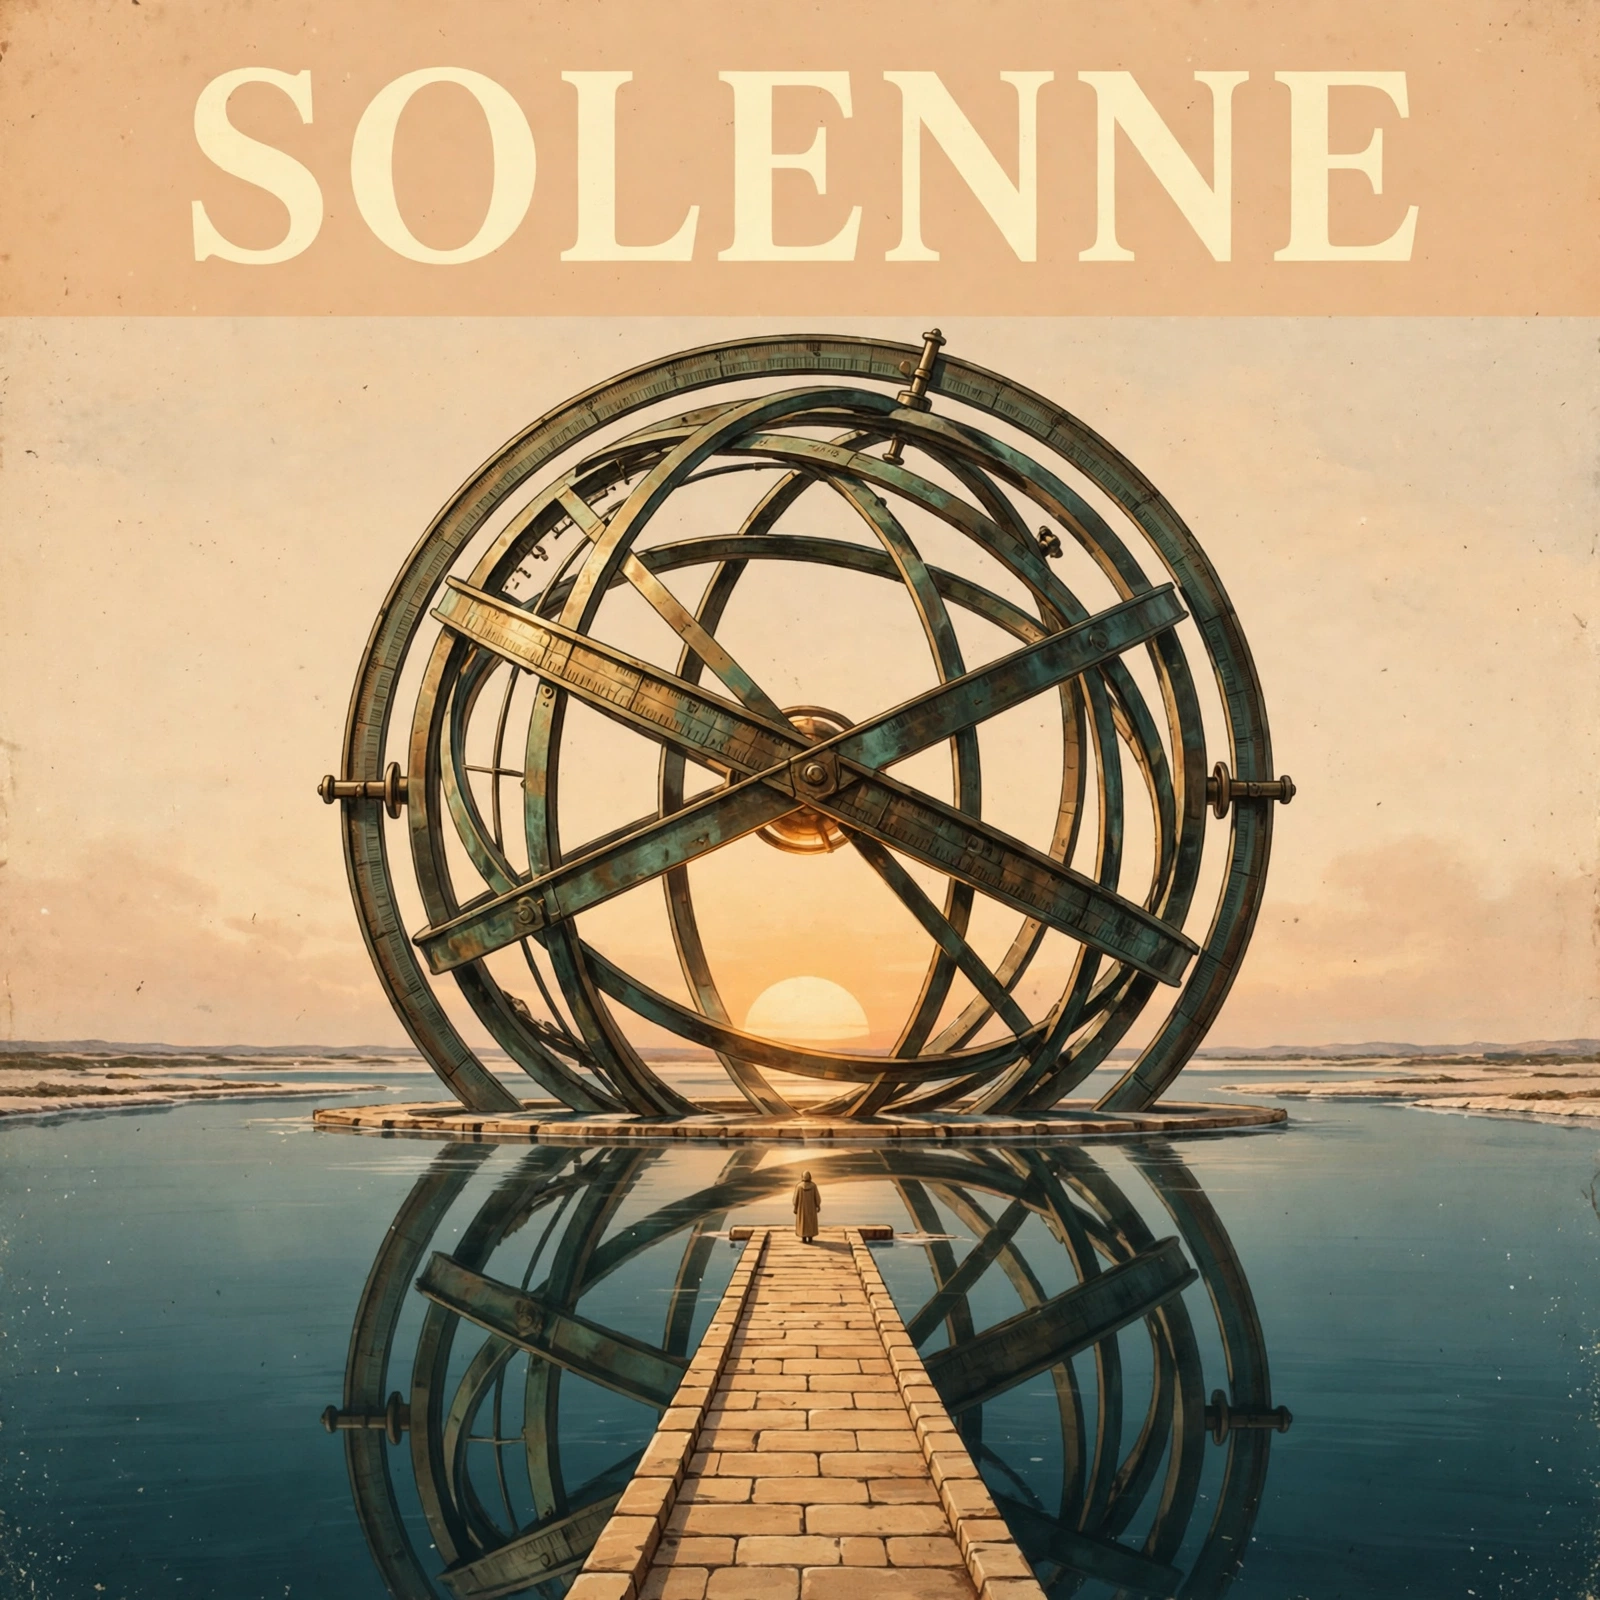
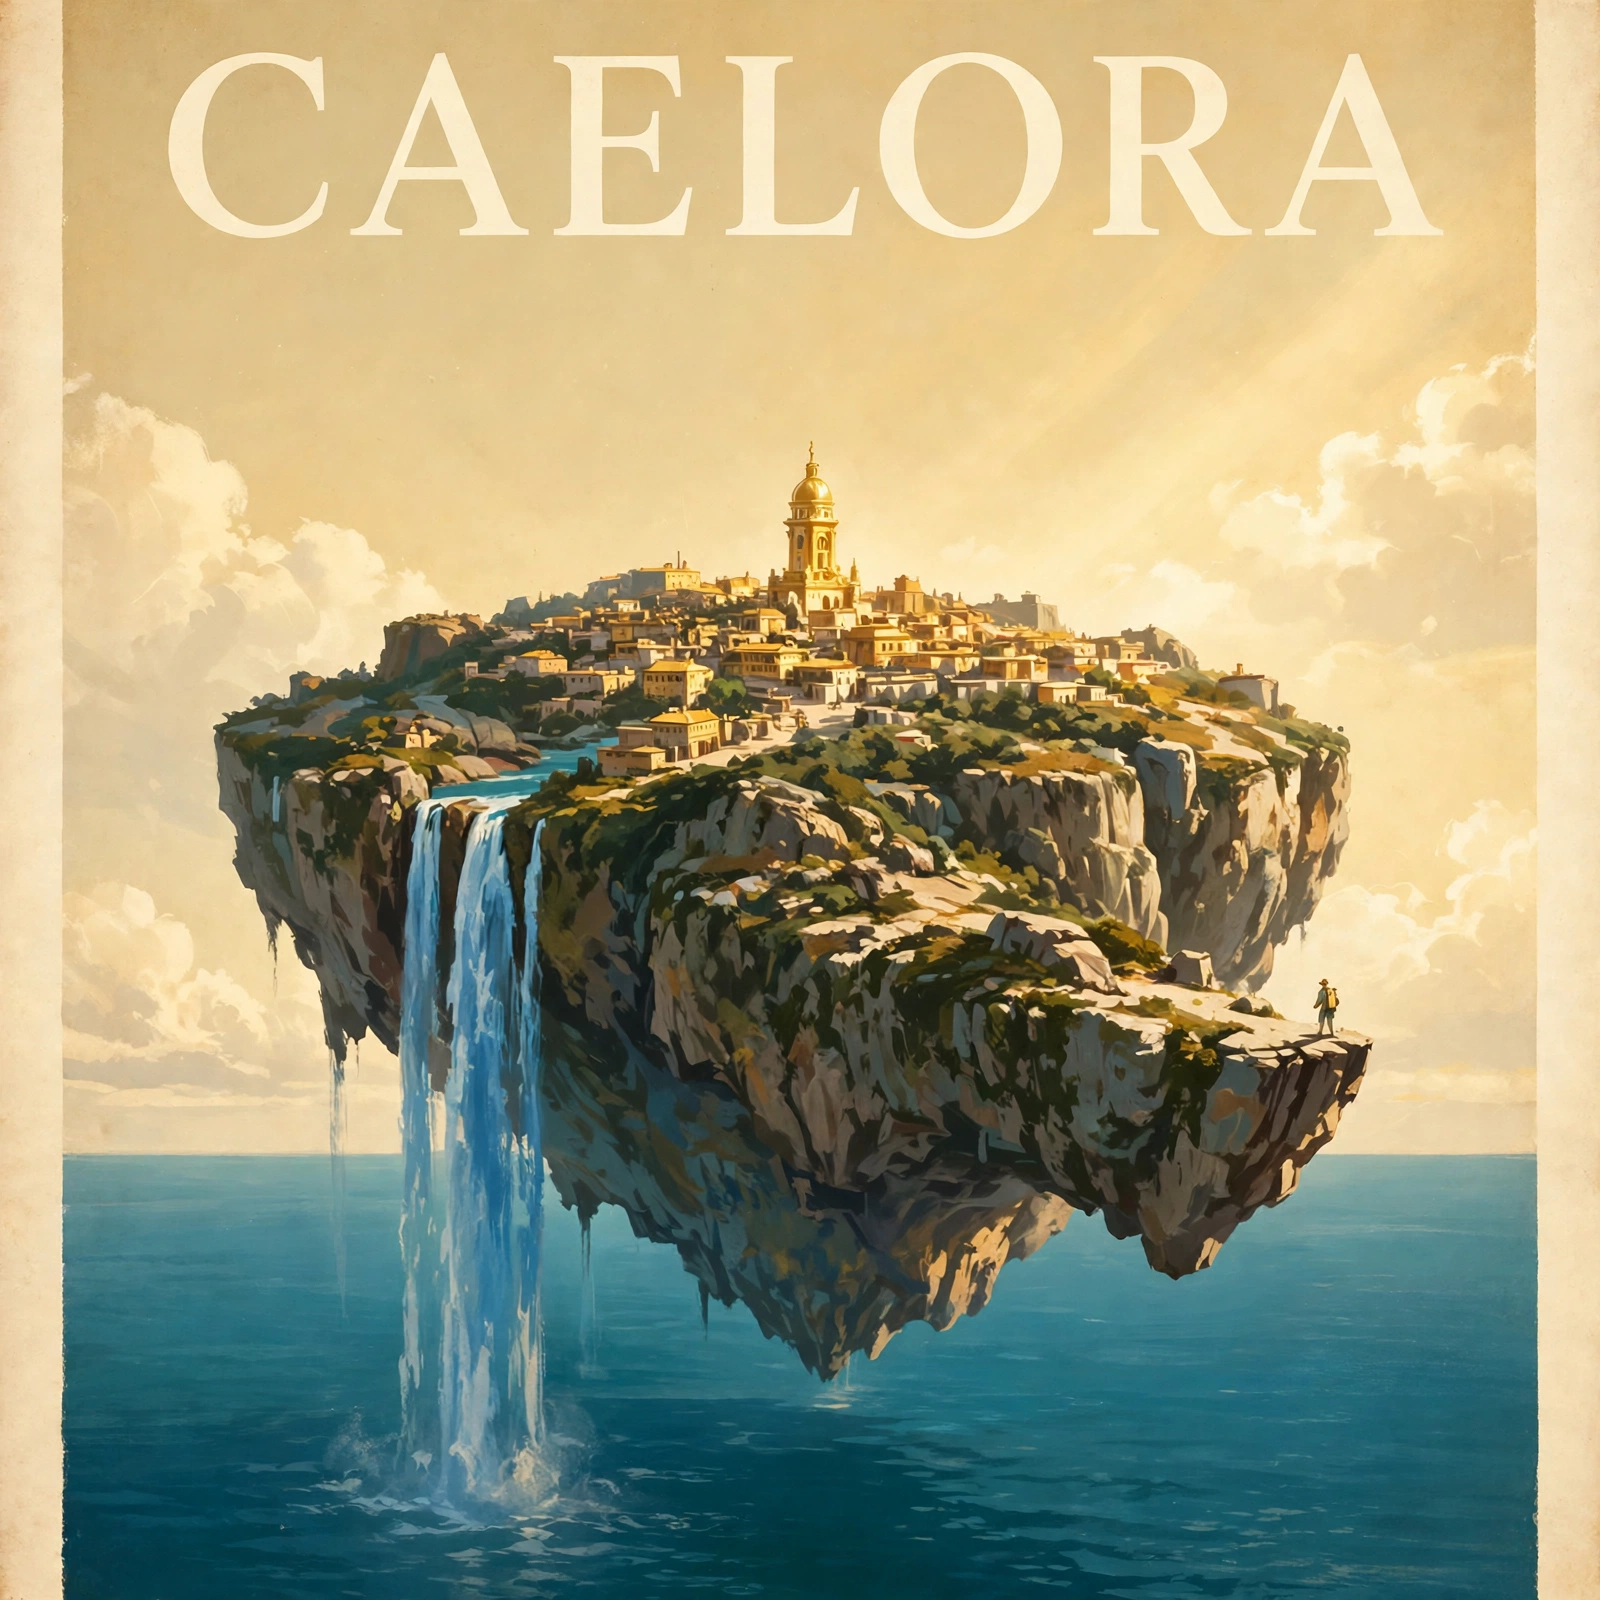
CAELORA — floating island poster

diff --git a/main.ts b/main.ts
@@ -1,4 +1,4 @@
-// SOLENNE entry: copy the committed entry.png into the output directory.
+// SOLVANE entry: copy the committed entry.png into the output directory.
 //
 // Guards, all checked before anything is written:
 //   - entry.png must be a PNG or JPEG (magic bytes)

diff --git a/render.py b/render.py
@@ -1,4 +1,4 @@
-"""Build SOLENNE entry.png from base.png.
+"""Build SOLVANE entry.png from base.png.
 
 Loads the square painterly base image (title already baked in), resizes it
 to exactly 1024x1024, adds a soft vignette and a light film grain, and saves

diff --git a/README.md b/README.md
@@ -1,10 +1,10 @@
-# SOLENNE
+# CAELORA
 
 [![make.fun · the-poster-for-a-place-that-i-2-20261121-0539](https://make.fun/badge/the-poster-for-a-place-that-i-2-20261121-0539.svg)](https://make.fun/bounty/the-poster-for-a-place-that-i-2-20261121-0539?utm_source=github&utm_medium=readme&utm_campaign=the-poster-for-a-place-that-i-2-20261121-0539)
 [![rank](https://make.fun/badge/the-poster-for-a-place-that-i-2-20261121-0539/Gillangzx/the-poster-for-a-place-that-i-2-20261121-0539-v4/rank.svg)](https://make.fun/bounty/the-poster-for-a-place-that-i-2-20261121-0539/leaderboard?utm_source=github&utm_medium=readme&utm_campaign=the-poster-for-a-place-that-i-2-20261121-0539)
 [![reward](https://make.fun/badge/the-poster-for-a-place-that-i-2-20261121-0539/Gillangzx/the-poster-for-a-place-that-i-2-20261121-0539-v4/reward.svg)](https://make.fun/bounty/the-poster-for-a-place-that-i-2-20261121-0539?utm_source=github&utm_medium=readme&utm_campaign=the-poster-for-a-place-that-i-2-20261121-0539)
 
-A travel poster for a place that isn't there. SOLENNE is a still salt lagoon built around the Meridian Ring — a colossal intact bronze armillary sphere rising from the water, its rings catching a low apricot sun. The still water doubles the ring in a perfect reflection, and a honey-stone causeway leads to one tiny robed figure walking toward it. No crowd, no noise — one landmark, warm light, water you can almost hear.
+A travel poster for a place that isn't there. CAELORA is a floating island with a tiny golden town and a domed tower, hovering in a bright golden sky, a waterfall pouring from its edge into a turquoise sea below, one tiny figure standing on the island's edge. One landmark, warm light, water falling from the sky.
 
 ## How it runs
 
